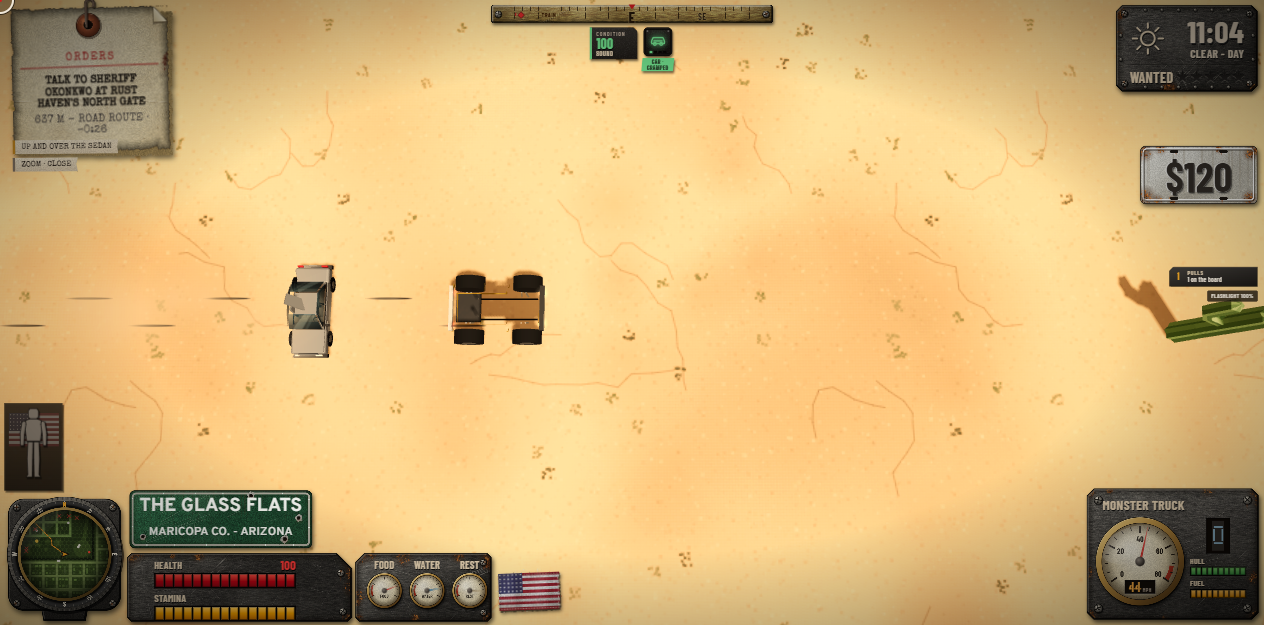
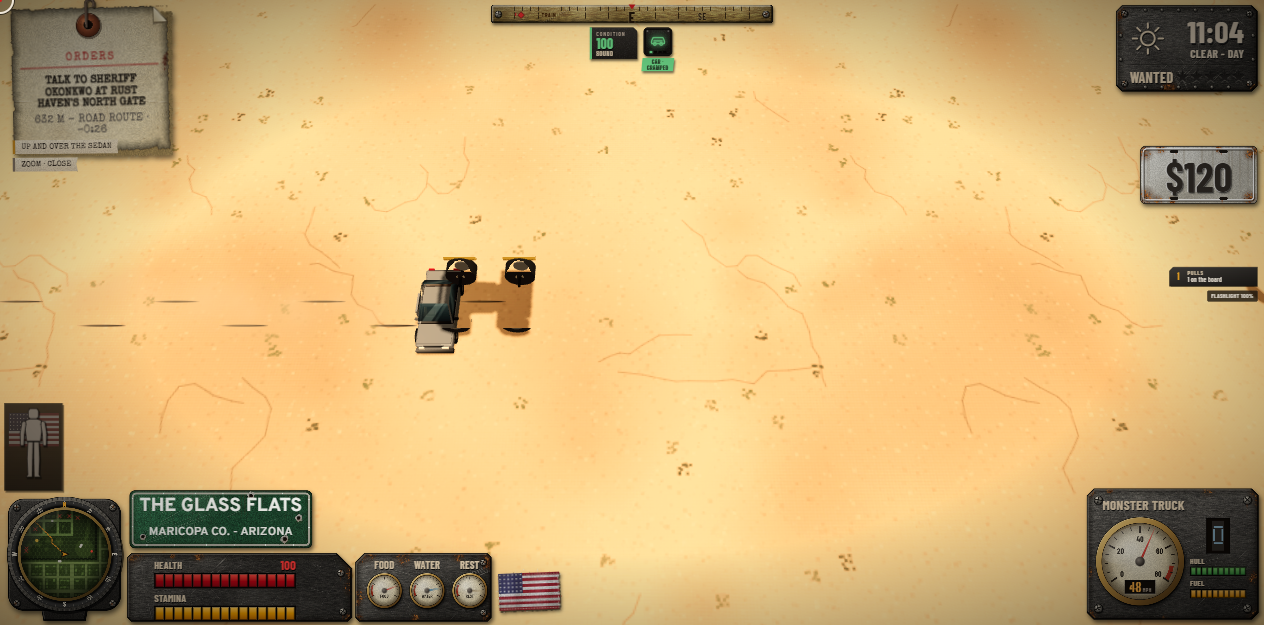
fix(web-veh-monster): parked by Dust Bowl Station, its tyres can't be swapped off, flares over the tread, axles to the hubs, proud doors and an open bed, retry throttled, body and save/load checks

diff --git a/web/src/systems/monster.js b/web/src/systems/monster.js
@@ -13,9 +13,14 @@ if (UTILITY.monster?.chassis && !UTILITY.monster.chassis.includes('monster_truck
 HULLS.monster_truck ??= monsterBody;
 
 export class Monsters {
-  constructor(game) { this.g = game; game.monsters = this; this.placed = new Set(); }
+  constructor(game) { this.g = game; game.monsters = this; this.placed = new Set(); this.nextTry = 0; }
   // Every monster truck wears its tyres: a spawn, a load, a ghost from a friend's page (a cheap test a frame).
-  kit(v) { if (v.utility?.monster) return; for (const u of MONSTER_ROW.builtIn.utility) { v.utility ??= {}; v.utility[u] = {}; } this.g.garage?.retune(v); }
+  kit(v) { // (an old save can hold another set too: it comes off, one tread set a car)
+    if (v.utility?.monster) return;
+    v.utility ??= {};
+    for (const u of MONSTER_ROW.builtIn.utility) { const set = UTILITY[u]?.set; if (set) for (const k of Object.keys(v.utility)) if (UTILITY[k]?.set === set) delete v.utility[k]; v.utility[u] = {}; }
+    this.g.garage?.retune(v);
+  }
   clearSpot(near, r) { // dry, open ground (the Dust Bowl has a pond), clear of buildings and other cars
     const S = this.g.statics, half = MONSTER_ROW.len / 2 + 2;
     const ok = (x, z) => { for (let dx = -half; dx <= half; dx += 2) for (let dz = -half; dz <= half; dz += 2) if (S.pointBlocked(x + dx, z + dz, 0.8) || (this.g.water?.depthAt(x + dx, z + dz) ?? 0) > 0.05) return false; return !this.g.vehicles.some((v) => Math.hypot(v.x - x, v.z - z) < half + 4); };
@@ -28,7 +33,8 @@ export class Monsters {
     for (const M of MONSTERS) {
       if (this.placed.has(M.id) || Math.hypot(p.x - M.near.x, p.z - M.near.z) > 260) continue;
       if (g.vehicles.some((q) => q.monsterRow === M.id)) { this.placed.add(M.id); continue; } // already standing (a load brought it back)
-      const at = this.clearSpot(M.near, M.r); if (!at) continue; // no clear ground yet: tried again next frame
+      if (g.time < this.nextTry) continue; // the ground search is not cheap: once a second while it finds none
+      const at = this.clearSpot(M.near, M.r); if (!at) { this.nextTry = g.time + 1; continue; }
       const v = g.vehiclesSys.spawn('monster_truck', at.x, at.z, M.h, M.paint); if (!v) continue;
       this.placed.add(M.id); v.monsterRow = M.id; v.fuel = (v.fuelCap ?? 0) * M.fuel; this.kit(v); // on fumes (data/monster.js)
       g.emit?.('monsterPlaced', { id: M.id, vehicle: v.id });
@@ -47,20 +53,25 @@ function monsterBody(parts, s, paint, K) {
   // The tube frame low between the wheels, the long-travel shocks up to the body at each corner.
   for (const sd of [1, -1]) {
     parts.push(beam([sd * 0.55, 0.55, -L / 2 + 0.2], [sd * 0.55, 0.55, L / 2 - 0.2], 0.07, FRAME, PART.frame));
-    for (const z of [L / 2 - 0.9, -L / 2 + 0.9]) for (const dz of [-0.18, 0.18]) parts.push(beam([sd * 0.7, 0.45, z + dz], [sd * (hw - 0.35), yB + 0.15, z + dz * 0.6], 0.06, SHOCK, PART.frame));
+    for (const z of [L / 2 - 0.8, -L / 2 + 0.8]) for (const dz of [-0.18, 0.18]) parts.push(beam([sd * (hw - 0.1), 0.22, z + dz], [sd * (hw - 0.35), yB + 0.15, z + dz * 0.6], 0.06, SHOCK, PART.frame)); // from the axle up to the body
   }
   // The body: a high, rounded tub with a bulging hood and wheel arches cut as wide flares.
-  parts.push(slab(-hw + 0.3, hw - 0.3, yB, yHood - 0.06, -L / 2 + 0.25, L / 2 - 0.1, paint));
+  const zb0 = -L / 2 + 0.25, zb1 = G.zC - 0.05; // the bed, behind the cab
+  parts.push(slab(-hw + 0.3, hw - 0.3, yB, yHood - 0.06, zb1, L / 2 - 0.1, paint)); // the tub: the cab and the nose
   parts.push(slab(-hw + 0.4, hw - 0.4, yHood - 0.06, yHood + 0.02, G.zA + 0.02, L / 2 - 0.2, paint, PART.hood));
   parts.push(slab(-0.42, 0.42, yHood + 0.02, yHood + 0.24, G.zA + 0.3, L / 2 - 0.55, '#3a3632', PART.hood)); // the blower scoop
-  for (const z of [L / 2 - 0.9, -L / 2 + 0.9]) for (const sd of [1, -1]) {
-    parts.push(slab(sd * (hw - 0.32), sd * (hw + 0.1), yB + 0.32, yB + 0.42, z - 0.85, z + 0.85, paint)); // the flare's lip
-    parts.push(slab(sd * (hw - 0.05), sd * (hw + 0.1), yB, yB + 0.42, z - 0.85, z - 0.78, paint));
+  // The axles sit where garage.js draws the tyres (UTILITY.monster: x out past the body, z at len/2 - 0.8, hub low).
+  const ax = L / 2 - 0.8, hubY = 0.19, tyreOut = hw + 0.68;
+  for (const z of [ax, -ax]) for (const sd of [1, -1]) {
+    parts.push(slab(sd * (hw - 0.32), sd * tyreOut, yB + 0.06, yB + 0.16, z - 0.85, z + 0.85, paint)); // the flare, as wide as the tread
+    parts.push(slab(sd * (tyreOut - 0.08), sd * tyreOut, yB - 0.16, yB + 0.16, z - 0.85, z + 0.85, paint)); // its turned-down lip
+    parts.push(beam([sd * 0.5, hubY, z], [sd * (hw - 0.05), hubY, z], 0.12, FRAME, PART.frame)); // the axle tube out to the hub
+    parts.push(beam([sd * 0.55, 0.55, z], [sd * 0.5, hubY, z], 0.08, FRAME, PART.frame)); // the frame down to it
   }
   parts.push(slab(-hw + 0.4, hw - 0.4, yB + 0.05, yHood - 0.12, L / 2 - 0.12, L / 2 - 0.04, '#1c1b19')); // the grille
   parts.push(slab(-hw - 0.05, hw + 0.05, yB - 0.08, yB + 0.14, L / 2 - 0.06, L / 2 + 0.18, '#2a2826', PART.bumperF));
   // The cab: doors, a small greenhouse high up, the roll cage through it.
-  for (const sd of [1, -1]) parts.push(slab(sd * (hw - 0.4), sd * (hw - 0.3), yB, G.yB, G.zC, G.zA, paint, sd > 0 ? PART.doorL : PART.doorR));
+  for (const sd of [1, -1]) parts.push(slab(sd * (hw - 0.3), sd * (hw - 0.2), yB + 0.04, G.yB, G.zC + 0.04, G.zA - 0.04, paint, sd > 0 ? PART.doorL : PART.doorR)); // proud of the tub
   greenhouse(parts, G, paint, paint);
   for (const sd of [1, -1]) {
     parts.push(beam([sd * 0.7, G.yB, G.zA - 0.1], [sd * 0.62, G.yR + 0.12, G.roofF], 0.05, BAR, PART.frame));
@@ -69,10 +80,9 @@ function monsterBody(parts, s, paint, K) {
   // A light bar on the roof; the short bed; twin stacks behind the cab; the tail.
   parts.push(slab(-0.7, 0.7, G.yR + 0.1, G.yR + 0.2, G.roofF - 0.15, G.roofF - 0.02, BAR));
   for (let k = -2; k <= 2; k++) parts.push(slab(k * 0.27 - 0.09, k * 0.27 + 0.09, G.yR + 0.11, G.yR + 0.19, G.roofF - 0.03, G.roofF + 0.01, '#f0e8c8', PART.light));
-  const zb0 = -L / 2 + 0.25, zb1 = G.zC - 0.05;
-  for (const sd of [1, -1]) parts.push(slab(sd * (hw - 0.4), sd * (hw - 0.3), yB, yHood, zb0, zb1, paint));
-  parts.push(slab(-hw + 0.4, hw - 0.4, yB, yB + 0.08, zb0, zb1, FRAME));
-  parts.push(slab(-hw + 0.4, hw - 0.4, yB, yHood, zb0, zb0 + 0.08, paint, PART.bumperR));
+  for (const sd of [1, -1]) parts.push(slab(sd * (hw - 0.4), sd * (hw - 0.3), yB, yHood - 0.06, zb0 + 0.08, zb1, paint)); // the bed sides
+  parts.push(slab(-hw + 0.4, hw - 0.4, yB, yB + 0.08, zb0 + 0.08, zb1, FRAME)); // the bed floor
+  parts.push(slab(-hw + 0.3, hw - 0.3, yB, yHood - 0.06, zb0, zb0 + 0.08, paint, PART.bumperR)); // the tailgate
   for (const sd of [1, -1]) parts.push(beam([sd * 0.45, yB + 0.2, G.zC - 0.2], [sd * 0.45, G.yR + 0.55, G.zC - 0.25], 0.07, STACK, PART.frame));
   parts.push(slab(-hw - 0.05, hw + 0.05, yB - 0.1, yB + 0.12, -L / 2 - 0.15, -L / 2 + 0.05, CHROME, PART.bumperR));
 }

diff --git a/web/src/agent/veh-monster-api.js b/web/src/agent/veh-monster-api.js
@@ -4,7 +4,8 @@
 import * as THREE from 'three';
 import { VEHICLES } from '../systems/vehicles.js';
 import { CHASSIS, UTILITY } from '../data/workshop.js';
-import { MONSTER_ROW, MONSTERS, validateMonster } from '../data/monster.js';
+import { MONSTER_ROW, MONSTER_GLASS, MONSTERS, validateMonster } from '../data/monster.js';
+import { PART } from '../systems/vehiclebodies.js';
 
 const r2 = (v) => Math.round(v * 100) / 100;
 
@@ -13,7 +14,7 @@ export async function vehMonsterChecks(api, check, C) {
   const off = () => { g.driveOverride = null; if (g.player.inVehicle) g.exitVehicle(true); for (const v of made.splice(0)) if (g.vehicles.includes(v)) g.vehiclesSys.remove(v); };
   const yard = { x: 250, z: 470 };
 
-  await check('monster truck: the row validates; a monster truck is its own body (a tube frame, a cab high on long shocks), always on MONSTER TYRES that lift it, and they cannot be sold off it', async () => {
+  await check('monster truck: the row validates; a monster truck is its own body (a tube frame, stacks over a cab up high), always on MONSTER TYRES that lift it - they cannot be sold off it or swapped for another set', async () => {
     try {
       const bad = validateMonster(UTILITY);
       await C('teleport', { x: yard.x - 10, z: yard.z }); await api._step(2);
@@ -22,16 +23,19 @@ export async function vehMonsterChecks(api, check, C) {
       const box = new THREE.Box3().setFromObject(v.mesh), tall = box.max.y - box.min.y;
       const pickup = g.vehiclesSys.spawn('pickup', yard.x + 12, yard.z, 0, '#777'); made.push(pickup);
       const boxP = new THREE.Box3().setFromObject(pickup.mesh);
-      const sameGeo = v.mesh.geometry === pickup.mesh.geometry || Math.abs(v.mesh.geometry.attributes.position.count - pickup.mesh.geometry.attributes.position.count) === 0;
+      const frameVerts = (m) => { const a = m.geometry.attributes.part; let n = 0; if (a) for (let i = 0; i < a.count; i++) if (a.getX(i) === PART.frame) n++; return n; };
+      const ownBody = frameVerts(v.mesh) > frameVerts(pickup.mesh) * 3 && box.max.y - v.group.position.y > MONSTER_GLASS.yR + 0.4; // the tube frame, shocks, cage; the stacks over the cab
       const ride = r2(v.liftY ?? 0), cash0 = g.cash ?? 0;
       const sold = g.workshop.remove(v, { part: 'monster', pay: true, time: false });
-      const still = !!v.utility?.monster, cash1 = g.cash ?? 0;
-      const out = { bad, row: !!VEHICLES.monster_truck, chassis: !!CHASSIS.monster_truck, fits: UTILITY.monster.chassis.includes('monster_truck'), tyres: !!v.utility?.monster, ride, tall: r2(tall), pickupTall: r2(boxP.max.y - boxP.min.y), sameGeo, sold: sold.ok, still, cash: [cash0, cash1] };
-      return !bad.length && out.row && out.chassis && out.fits && out.tyres && ride === UTILITY.monster.monster.lift && tall > 1.8 && tall <= MONSTER_ROW.tall + 0.05 && !sameGeo && !sold.ok && still && cash1 === cash0 ? true : JSON.stringify(out);
+      const swapped = g.workshop.install(v, { part: 'tread_road', pay: false, time: false });
+      const treads = Object.keys(v.utility ?? {}).filter((u) => UTILITY[u]?.set === UTILITY.monster.set);
+      const still = !!v.utility?.monster && treads.length === 1, cash1 = g.cash ?? 0;
+      const out = { bad, row: !!VEHICLES.monster_truck, chassis: !!CHASSIS.monster_truck, fits: UTILITY.monster.chassis.includes('monster_truck'), tyres: !!v.utility?.monster, ride, tall: r2(tall), pickupTall: r2(boxP.max.y - boxP.min.y), ownBody, sold: sold.ok, swapped: swapped.ok, treads, still, cash: [cash0, cash1] };
+      return !bad.length && out.row && out.chassis && out.fits && out.tyres && ride === UTILITY.monster.monster.lift && tall > 1.8 && tall <= MONSTER_ROW.tall + 0.05 && ownBody && !sold.ok && !swapped.ok && still && cash1 === cash0 ? true : JSON.stringify(out);
     } finally { off(); }
   });
 
-  await check('monster truck: one is parked at the Dust Bowl the first time you come near, once, on dry ground, on fumes (not a full tank)', async () => {
+  await check('monster truck: one is parked by Dust Bowl Station the first time you come near, once, on dry ground, on fumes (not a full tank)', async () => {
     try {
       const M = MONSTERS[0];
       await C('teleport', { x: M.near.x - 30, z: M.near.z - 30 }); for (let f = 0; f < 10; f++) await api._step(1);
@@ -58,6 +62,20 @@ export async function vehMonsterChecks(api, check, C) {
       const climbed = ((await C('events', { since: seq0, type: 'monsterClimb' })).events ?? []).some((e) => e.over === o.id);
       const out = { climbed, peak: r2(peak), hp: [Math.round(hp0), Math.round(o.hp)], crushed: r2(o.crushed ?? 0) };
       return climbed && peak > 1 && out.crushed > 0 && o.hp < hp0 ? true : JSON.stringify(out);
+    } finally { off(); }
+  });
+
+  await check('monster truck: a save and a load keep the Dust Bowl truck - the same one, still on its tyres, its fuel as it was, and no second one parked', async () => {
+    try {
+      const M = MONSTERS[0];
+      await C('teleport', { x: M.near.x - 30, z: M.near.z - 30 }); for (let f = 0; f < 6; f++) await api._step(1);
+      const v = g.vehicles.find((q) => q.monsterRow === M.id); if (!v) return 'not placed';
+      v.fuel = 7.5; // staged: a known amount in the tank
+      const id = v.id, snap = (await C('save')).save;
+      await C('load', { save: snap }); for (let f = 0; f < 6; f++) await api._step(1);
+      const all = g.vehicles.filter((q) => q.monsterRow === M.id), w = all[0];
+      const out = { n: all.length, same: w?.id === id, type: w?.type, tyres: !!w?.utility?.monster, fuel: w && r2(w.fuel), placed: g.monsters.placed.has(M.id) };
+      return out.n === 1 && out.same && out.type === 'monster_truck' && out.tyres && out.fuel === 7.5 && out.placed ? true : JSON.stringify(out);
     } finally { off(); }
   });
 }

diff --git a/web/src/data/monster.js b/web/src/data/monster.js
@@ -6,17 +6,17 @@
 // systems/monster.js registers and places it. Pure data: tools/monster.test.mjs validates it in node.
 const S2 = [{ id: 'driver', side: 'left', row: 0 }, { id: 'shotgun', side: 'right', row: 0 }];
 export const MONSTER_ROW = {
-  name: 'MONSTER TRUCK', len: 4.7, wid: 2.3, tall: 2.35, maxSpeed: 35, reverse: 11, accel: 21, turn: 1.85, grip: 6.4, mass: 2.6,
+  name: 'MONSTER TRUCK', len: 4.7, wid: 2.3, tall: 2.6, maxSpeed: 35, reverse: 11, accel: 21, turn: 1.85, grip: 6.4, mass: 2.6,
   hp: 380, armor: 0.24, fuelCap: 110, seats: S2, builtIn: { utility: ['monster'] },
 };
 // The cab's glass (vehiclebodies GREENHOUSE shape): small windows high up.
-export const MONSTER_GLASS = { zA: 0.55, roofF: 0.15, roofR: -0.65, zC: -0.75, yB: 1.42, yR: 1.95, wB: 1.9, wR: 1.66, hp: 45 };
+export const MONSTER_GLASS = { zA: 0.55, roofF: 0.15, roofR: -0.65, zC: -0.75, yB: 1.42, yR: 1.95, wB: 1.68, wR: 1.5, hp: 45 };
 // The workshop (data/workshop.js CHASSIS shape): a show truck's frame takes plate and guns like a pickup's.
 export const MONSTER_CHASSIS = { maxKg: 1500, spaces: 12, faces: { front: 36, rear: 32, left: 30, right: 30, top: 16, under: 22 },
   mounts: { front: { size: 2, arc: 0.45 }, rear: { size: 2, arc: 0.6 }, left: { size: 1, arc: 0.6 }, right: { size: 1, arc: 0.6 }, top: { size: 2, arc: Math.PI } } };
-// Where the world has one: parked at the Dust Bowl (data/workshop.js ARENAS: Rust Haven + 420, 140), the arena's star.
-// fuel: the share of its tank left in it (a show truck sits on fumes between shows: find gas before you go far).
-export const MONSTERS = [{ id: 'dustbowl_monster', near: { x: 420, z: 128 }, r: 50, h: Math.PI / 2, paint: '#c8a032', fuel: 0.15 }];
+// Where the world has one: parked by DUST BOWL STATION (data/travel.js dustbowl, the iron line's stop at -366, 96), a show
+// truck waiting on a show that never came. fuel: the share of its tank left (on fumes: find gas before you go far).
+export const MONSTERS = [{ id: 'dustbowl_monster', near: { x: -346, z: 112 }, r: 50, h: Math.PI / 2, paint: '#c8a032', fuel: 0.15 }];
 export function validateMonster(UTILITY = null) {
   const bad = [];
   if (UTILITY && !UTILITY.monster) bad.push('no MONSTER TYRES utility to wear');

diff --git a/web/src/systems/garage.js b/web/src/systems/garage.js
@@ -182,6 +182,8 @@ export class Garage {
     if (v.utility?.[id]) return { ok: false, why: `already fitted: ${U.name}` };
     if (U.chassis && !U.chassis.includes(this.chassisKey(v))) return { ok: false, why: `${U.name} won't go on a ${v.name}` };
     if (U.glass && !this.g.carCombat?.layout(v)) return { ok: false, why: `a ${v.name} has no windshield to pull` };
+    const held = U.set ? v.builtIn?.utility?.find((u) => u !== id && UTILITY[u]?.set === U.set) : null; // a monster truck's tyres are part of it (data/monster.js builtIn)
+    if (held) return { ok: false, why: `the ${v.name} runs on its own ${UTILITY[held].name}` };
     const swap = U.set ? Object.keys(v.utility ?? EMPTY).find((u) => UTILITY[u]?.set === U.set) : null; // one tread a car: the old set comes off
     const swapKg = swap ? UTILITY[swap].kg : 0;
     if (U.needs && !v.harpoon && !Object.values(v.mounts ?? EMPTY).some((m) => MOUNT_WEAPONS[m.kind]?.kind === U.needs)) return { ok: false, why: `the ${U.name.toLowerCase()} needs a ${U.needs} gun fitted first` }; // the winch rides a harpoon (WEB_GADGETS2.md)
